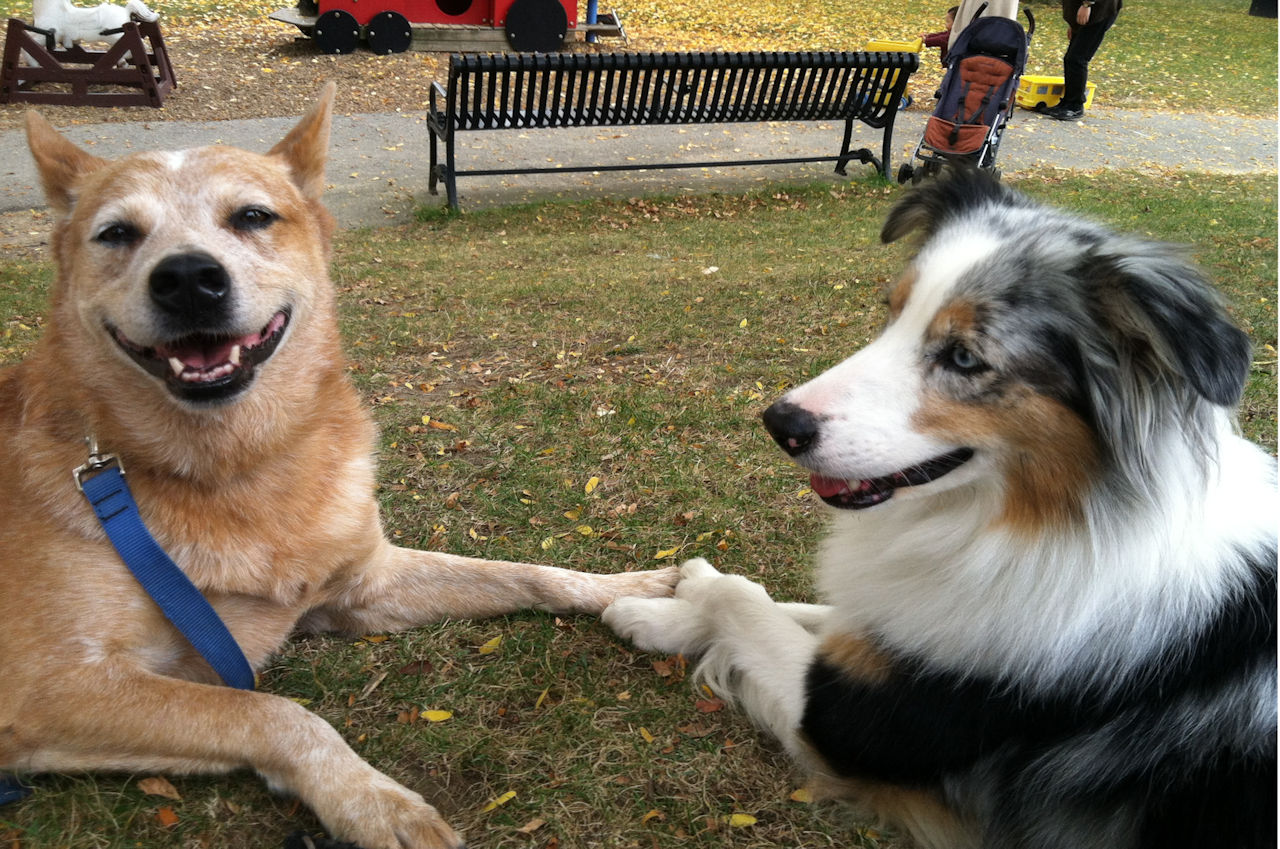
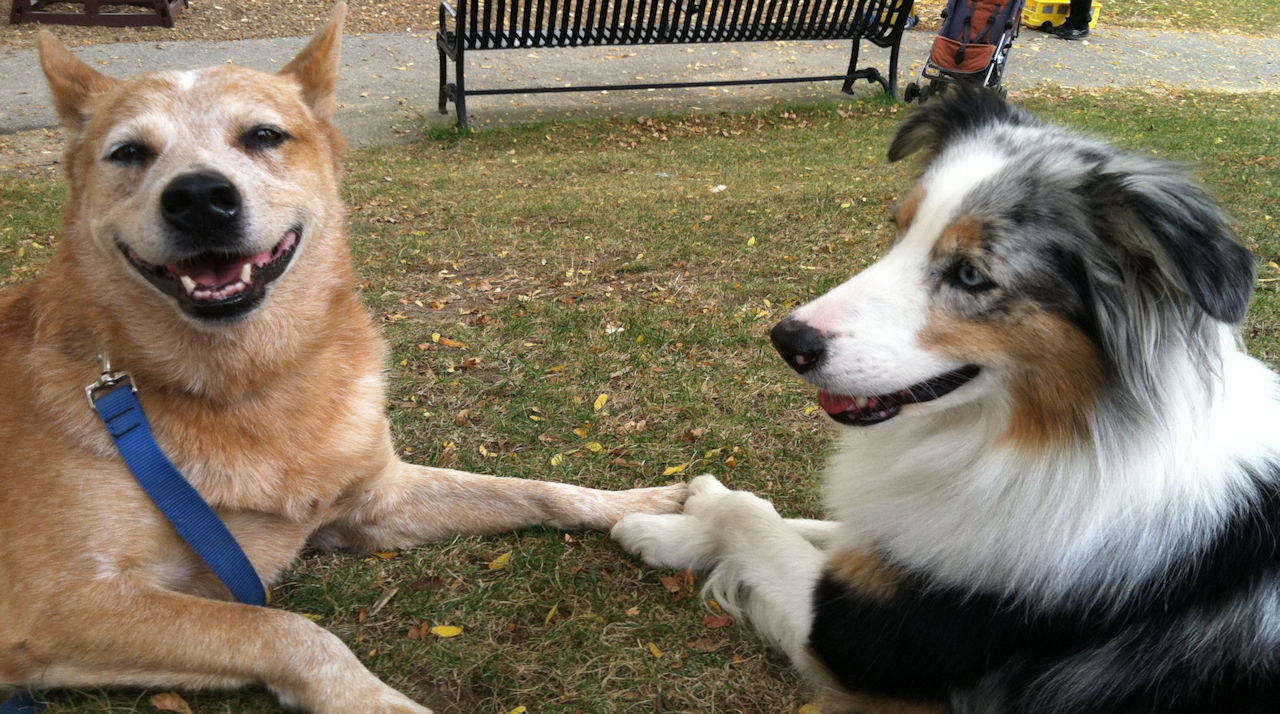
mobile fixes work in progress

diff --git a/app/sass/about.scss b/app/sass/about.scss
@@ -1,8 +1,8 @@
 @import 'variables';
 
 #about {
-  height: $about-height;
-  padding-top: 100px;
+  /* height: $about-height; */
+  padding: 100px 0;
   color: $about-color;
   background: $about-background;
   font-family: 'Helvetica', sans-serif;
@@ -49,20 +49,20 @@
 
   @media screen and (max-width: 1280px) {
     font-size: $about-font-size * .9;
-    height: $about-height * 1.1;
+    /* height: $about-height * 1.1; */
   }
 
   @media screen and (max-width: 800px) {
     font-size: $about-font-size * .8;
   }
 
-  @media screen and (max-width: 800px) and (orientation: portrait) {
+  /* @media screen and (max-width: 800px) and (orientation: portrait) {
     height: $about-height * 1.2;
   }
 
   @media screen and (max-width: 800px) and (orientation: landscape) {
     height: $about-height * 1.6;
-  }
+  } */
 
   @media screen and (max-width: 640px) {
     font-size: $about-font-size * .7;
@@ -75,20 +75,20 @@
     }
   }
 
-  @media screen and (max-width: 640px) and (orientation: portrait) {
+  /* @media screen and (max-width: 640px) and (orientation: portrait) {
     height: $about-height * 1.5;
   }
 
   @media screen and (max-width: 640px) and (orientation: landscape) {
     height: $about-height * 2.5;
-  }
+  } */
 
   @media screen and (max-width: 400px) {
     font-size: $about-font-size * .6;
-    height: $about-height * 1.6;
+    /* height: $about-height * 1.6; */
   }
 
-  @media screen and (max-width: 300px) {
+ /*  @media screen and (max-width: 300px) {
     height: $about-height * 1.8;
-  }
+  } */
 }

diff --git a/app/index.html b/app/index.html
@@ -78,10 +78,13 @@
 
       <!--Picturefill image display-->
       <picture>
-        <source srcset="images/Dusty&Red_320.jpg, images/Dusty&Red_640.jpg 2x" media="(max-width: 320px)">
-        <source srcset="images/Dusty&Red_400.jpg, images/Dusty&Red_800.jpg 2x" media="(max-width: 400px)">
+        <source srcset="images/Red_320.jpg, images/Red_640.jpg 2x" media="(max-width: 320px)">
+        <source srcset="images/Red_400.jpg, images/Red_800.jpg 2x" media="(max-width: 400px)">
+        <source srcset="images/Red_438.jpg, images/Red_875.jpg 2x" media="(max-width: 438px)">
+        <source srcset="images/Red_500.jpg, images/Red_1000.jpg 2x" media="(max-width: 500px)">
+        <source srcset="images/Red_550.jpg, images/Red_1100.jpg 2x" media="(max-width: 550px)">
         <source srcset="images/Dusty&Red_640.jpg, images/Dusty&Red_1280.jpg 2x" media="(max-width: 640px)">
-        <source srcset="images/Dusty&Red_800.jpg" media="(max-width: 800px)">
+        <source srcset="images/Dusty&Red_800.jpg" "images/Dusty&Red_1600.jpg 2x" media="(max-width: 800px)">
         <source srcset="images/Dusty&Red_1280.jpg" media="(max-width: 1280px)">
         <img class="home-background" srcset="images/Dusty&Red_1920.jpg" alt="Dusty & Red">
       </picture>

diff --git a/app/sass/navbar.scss b/app/sass/navbar.scss
@@ -160,20 +160,20 @@
 
 @media screen and (max-width: 400px)  {
   .name-navbar {
-    width: 50%;
-    padding-right: 1em;
+    width: 60%;
+    padding-right: 2em;
     font-size: 1.6em;
   }
 }
 
-@media screen and (max-width: 350px)  {
+@media screen and (max-width: 325px)  {
   .fixed-navbar {
     height: 12em;
     line-height: 4em;
   }
 }
 
-@media screen and (max-width: 280px)  {
+@media screen and (max-width: 310px)  {
   .mobile-navbar-icon {
     right: 2em;
   }

diff --git a/app/sass/_variables.scss b/app/sass/_variables.scss
@@ -16,7 +16,7 @@ $home-button-two-color: #5f00ff;
 $home-button-two-hover-highlight: #d500ff;
 
 /* About */
-$about-height: 150vh;
+/* $about-height: 150vh; */
 $about-color: #000;
 $about-h1-color: darkblue;
 $about-h2-color: rgb(128, 34, 0);
